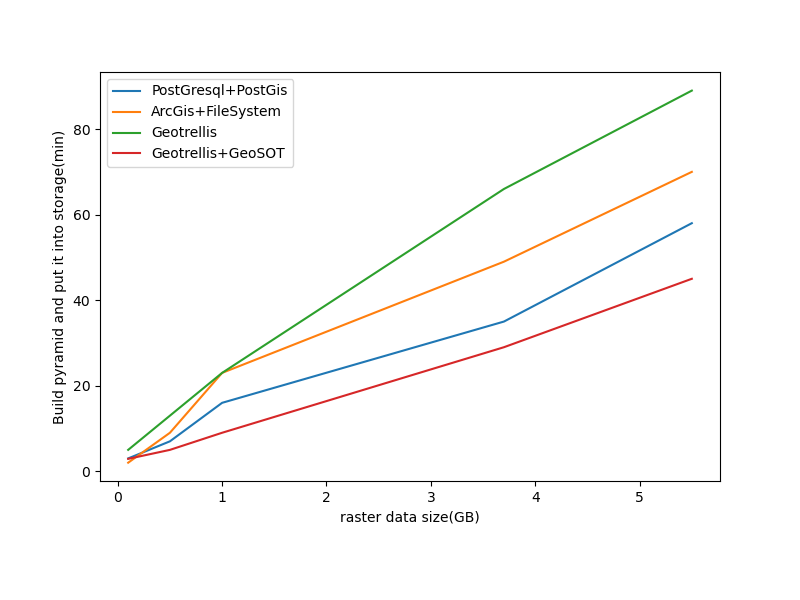
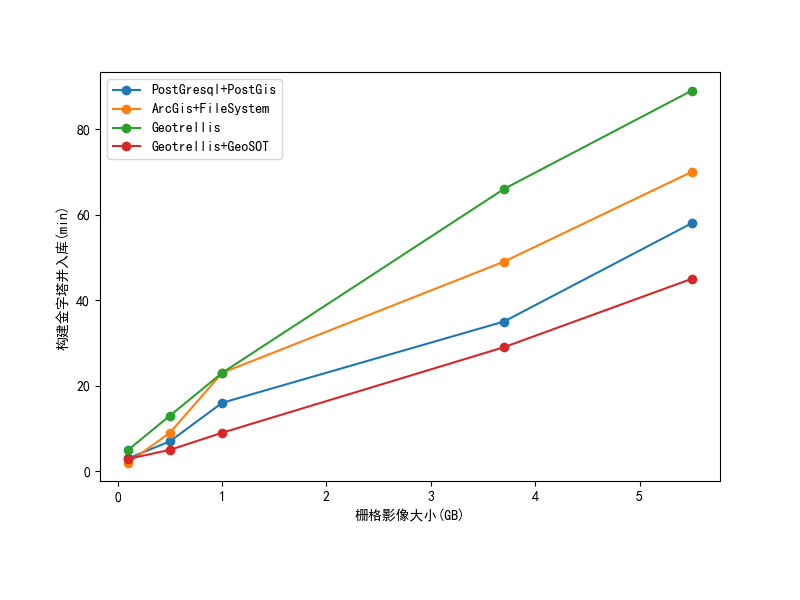
栅格数据实验画图

diff --git a/shange/paint.py b/shange/paint.py
@@ -1,6 +1,9 @@
 import matplotlib.pyplot as plt
 import pandas as pd
 
+# 设置中文字体
+plt.rcParams["font.sans-serif"] = ["SimHei"]
+
 data = {
     'PostGresql+PostGis': [3, 7, 16, 35, 58],
     'ArcGis+FileSystem': [2, 9, 23, 49, 70],
@@ -9,27 +12,27 @@ data = {
 }
 x = [0.1, 0.5, 1, 3.7, 5.5]
 
-# Create a figure and two subplots for line chart and table
+# 为折线图和表格创建一个图形和两个子图形
 fig, (ax1, ax2) = plt.subplots(2, 1, gridspec_kw={'height_ratios': [20, 1]}, figsize=(8, 6))
 
-# Plotting the line chart
+# 用点标记绘制折线图
 for label, values in data.items():
-    ax1.plot(x, values, label=label)
+    ax1.plot(x, values, marker='o', label=label)  # 为点标记添加标记=“0”
 
 ax1.legend()
-ax1.set_xlabel('raster data size(GB)')
-ax1.set_ylabel('Build pyramid and put it into storage(min)')
+ax1.set_xlabel('栅格影像大小(GB)')
+ax1.set_ylabel('构建金字塔并入库(min)')
 
-# Creating a DataFrame for the table
+# 为表创建DataFrame
 # table_data = pd.DataFrame(data, index=[str(val) + 'GB' for val in x])
 #
-# # Plotting the table
+# # 绘制表格
 # table = ax2.table(cellText=table_data.values, colLabels=table_data.columns, rowLabels=table_data.index,
 #                   cellLoc='center', rowLoc='center', loc='center')
 
-# Hide the axes of the table
+# 隐藏表格的轴
 ax2.axis('off')
 
-plt.subplots_adjust(hspace=0.15)  # Adjusting the spacing between subplots
+plt.subplots_adjust(hspace=0.15)  # 调整子地块之间的间距
 plt.savefig('fig5.png')
 plt.show()

diff --git a/shange/paintsd.py b/shange/paintsd.py
@@ -1,5 +1,8 @@
 import matplotlib.pyplot as plt
 
+# 设置中文字体
+plt.rcParams["font.sans-serif"] = ["SimHei"]
+
 plt.rcParams['font.sans-serif'] = ['Microsoft YaHei']
 
 # 数据
@@ -8,11 +11,12 @@ postgres = [2, 10, 94, 153]
 accumulo = [8, 15, 22, 41]
 
 # 绘图
-plt.plot(sizes, postgres, label="PostgreSQL")
-plt.plot(sizes, accumulo, label="Accumulo")
-plt.xlabel("Extent(km²)")
-plt.ylabel("Read Time(s)")
+plt.plot(sizes, postgres, marker='o', label="PostgreSQL")  # 添加点标记 marker='o'
+plt.plot(sizes, accumulo, marker='o', label="Accumulo")  # 添加点标记 marker='o'
+plt.xlabel("栅格范围(km²)")
+plt.ylabel("读取时间(s)")
 plt.legend()
 
 # 显示图形
+plt.savefig('fig7.png')
 plt.show()
